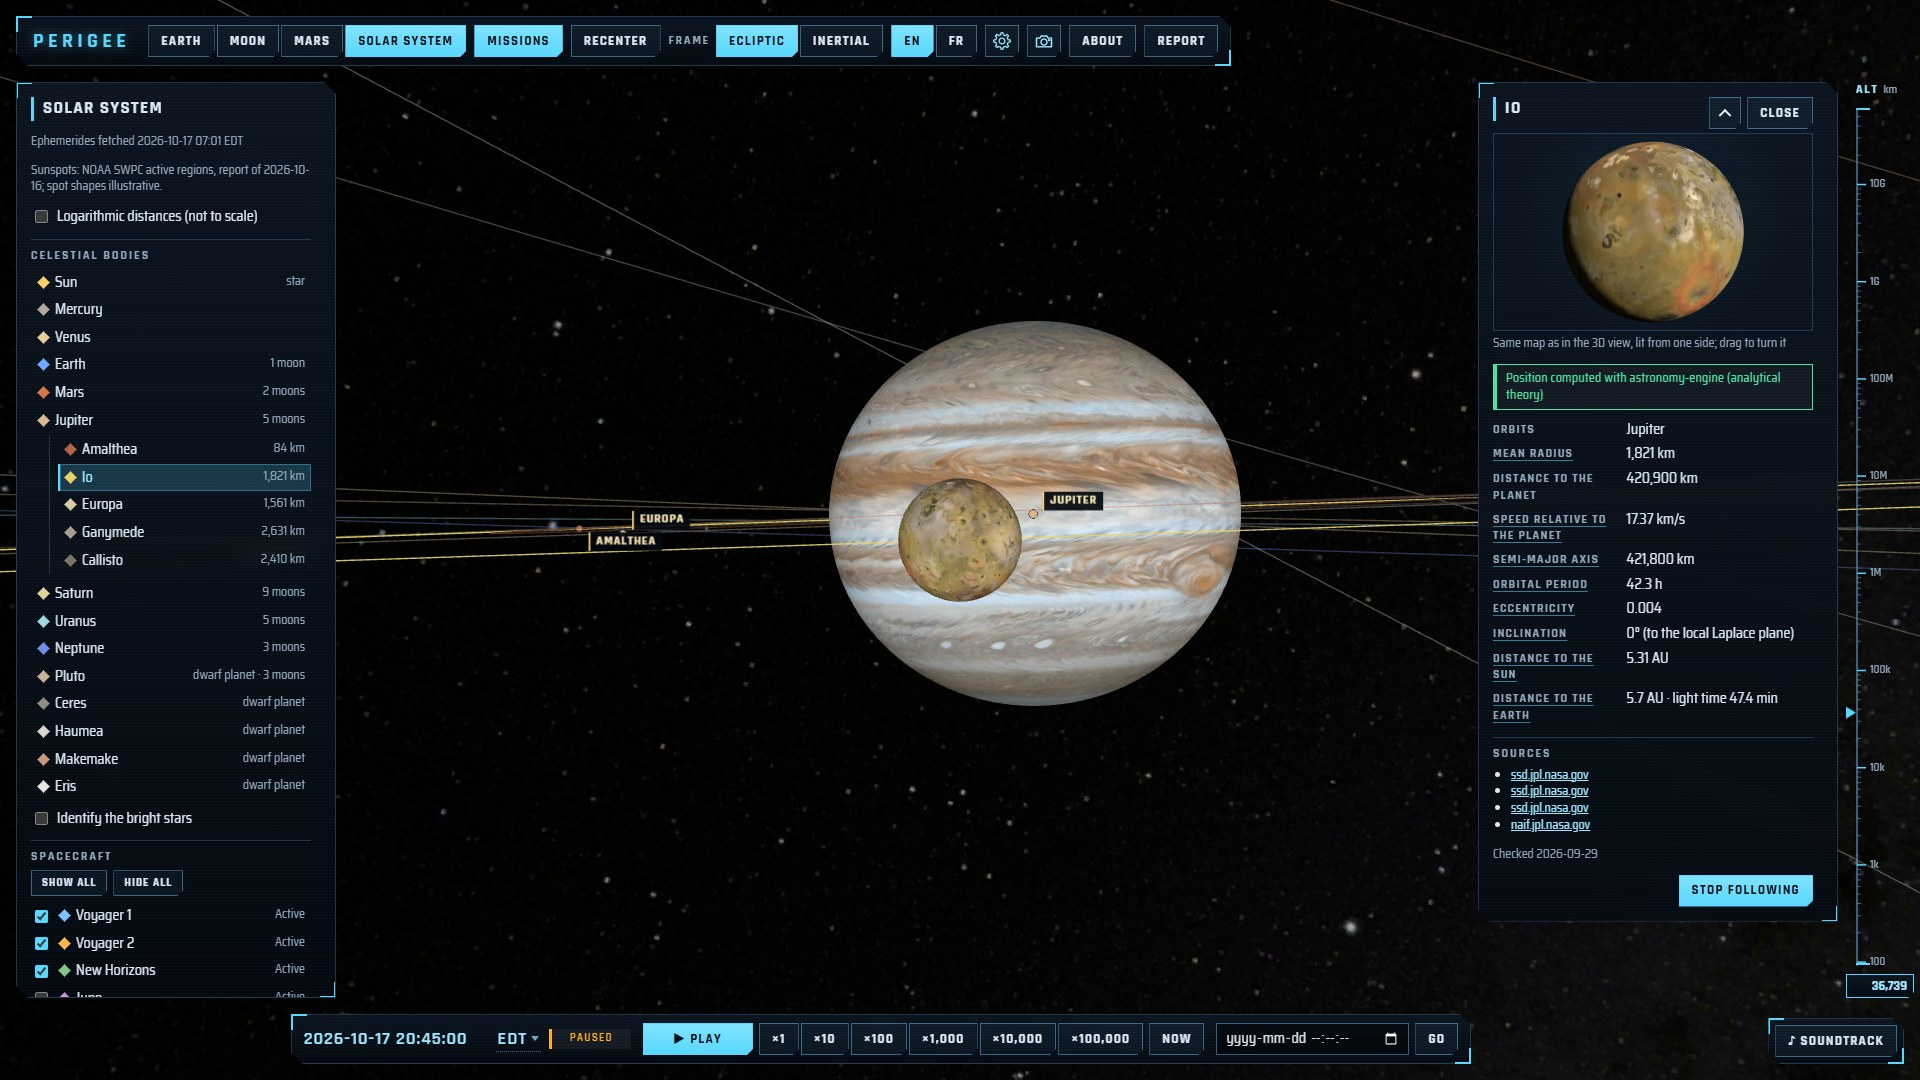
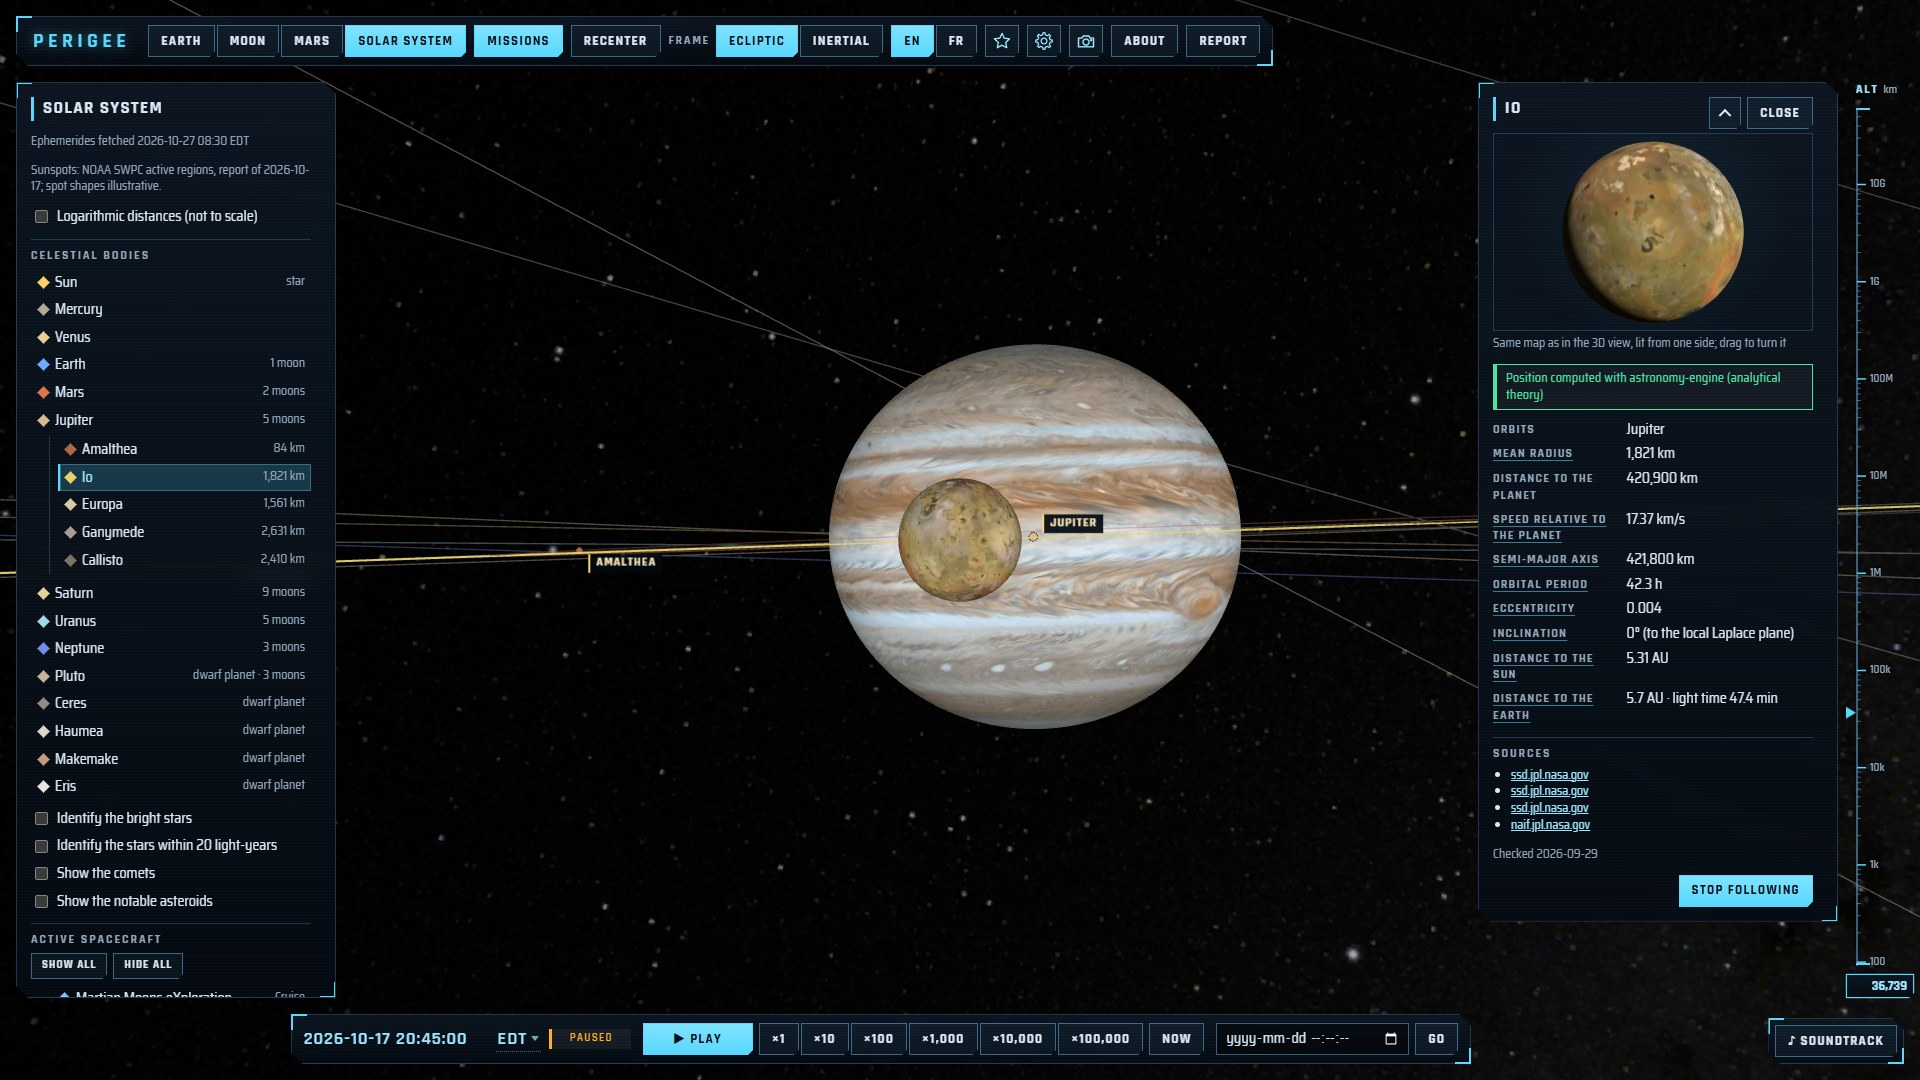
docs: README screenshots with the favorites button; data:pull fetches the 30-day archives
npm run data:pull now also downloads ephem/past/<id>.bin (hash-checked), so past
dates show the archived positions locally as on the site.

diff --git a/pipeline/pull.ts b/pipeline/pull.ts
@@ -27,6 +27,10 @@ async function main(): Promise<void> {
     ...Object.values(manifest.moons),
     ...Object.values(manifest.comets),
     ...Object.values(manifest.asteroids),
+    // The 30-day archives before the windows (past dates), with their mission's fetch time.
+    ...Object.values(manifest.ephemerides).flatMap((e) =>
+      e.past ? [{ ...e.past, fetchedAt: e.fetchedAt }] : [],
+    ),
   ]) {
     const bytes = await get(`${RAW}/${entry.path}`);
     const hash = createHash('sha256').update(bytes).digest('hex');
